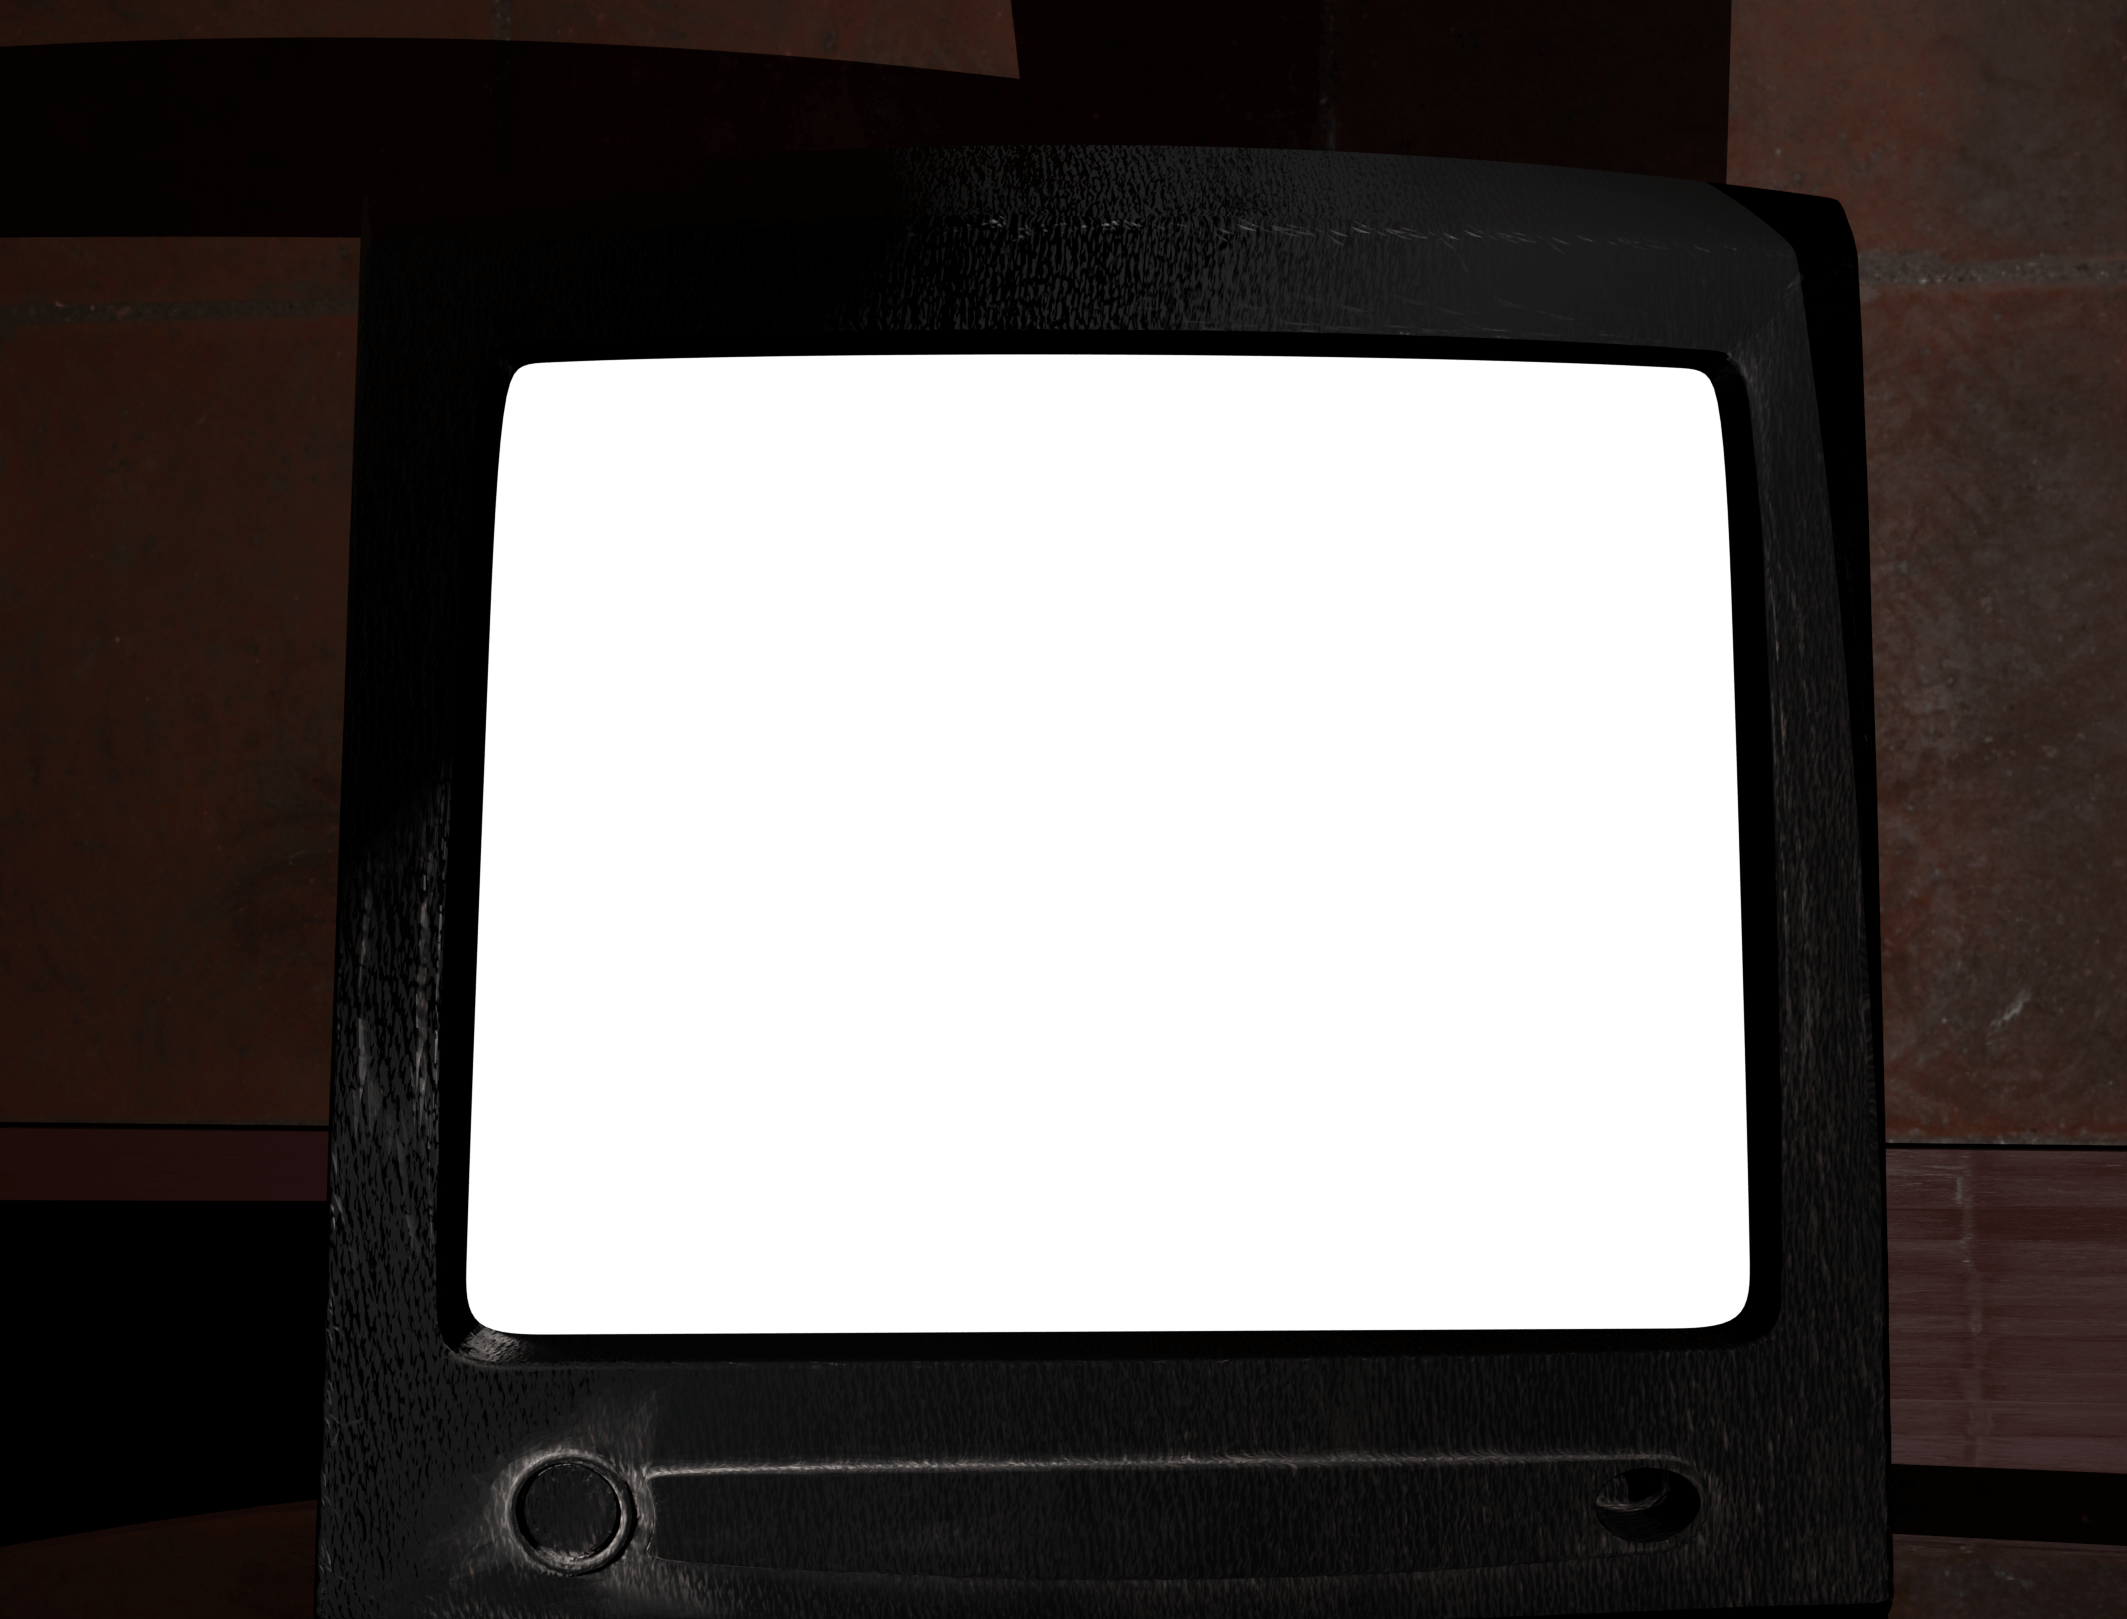
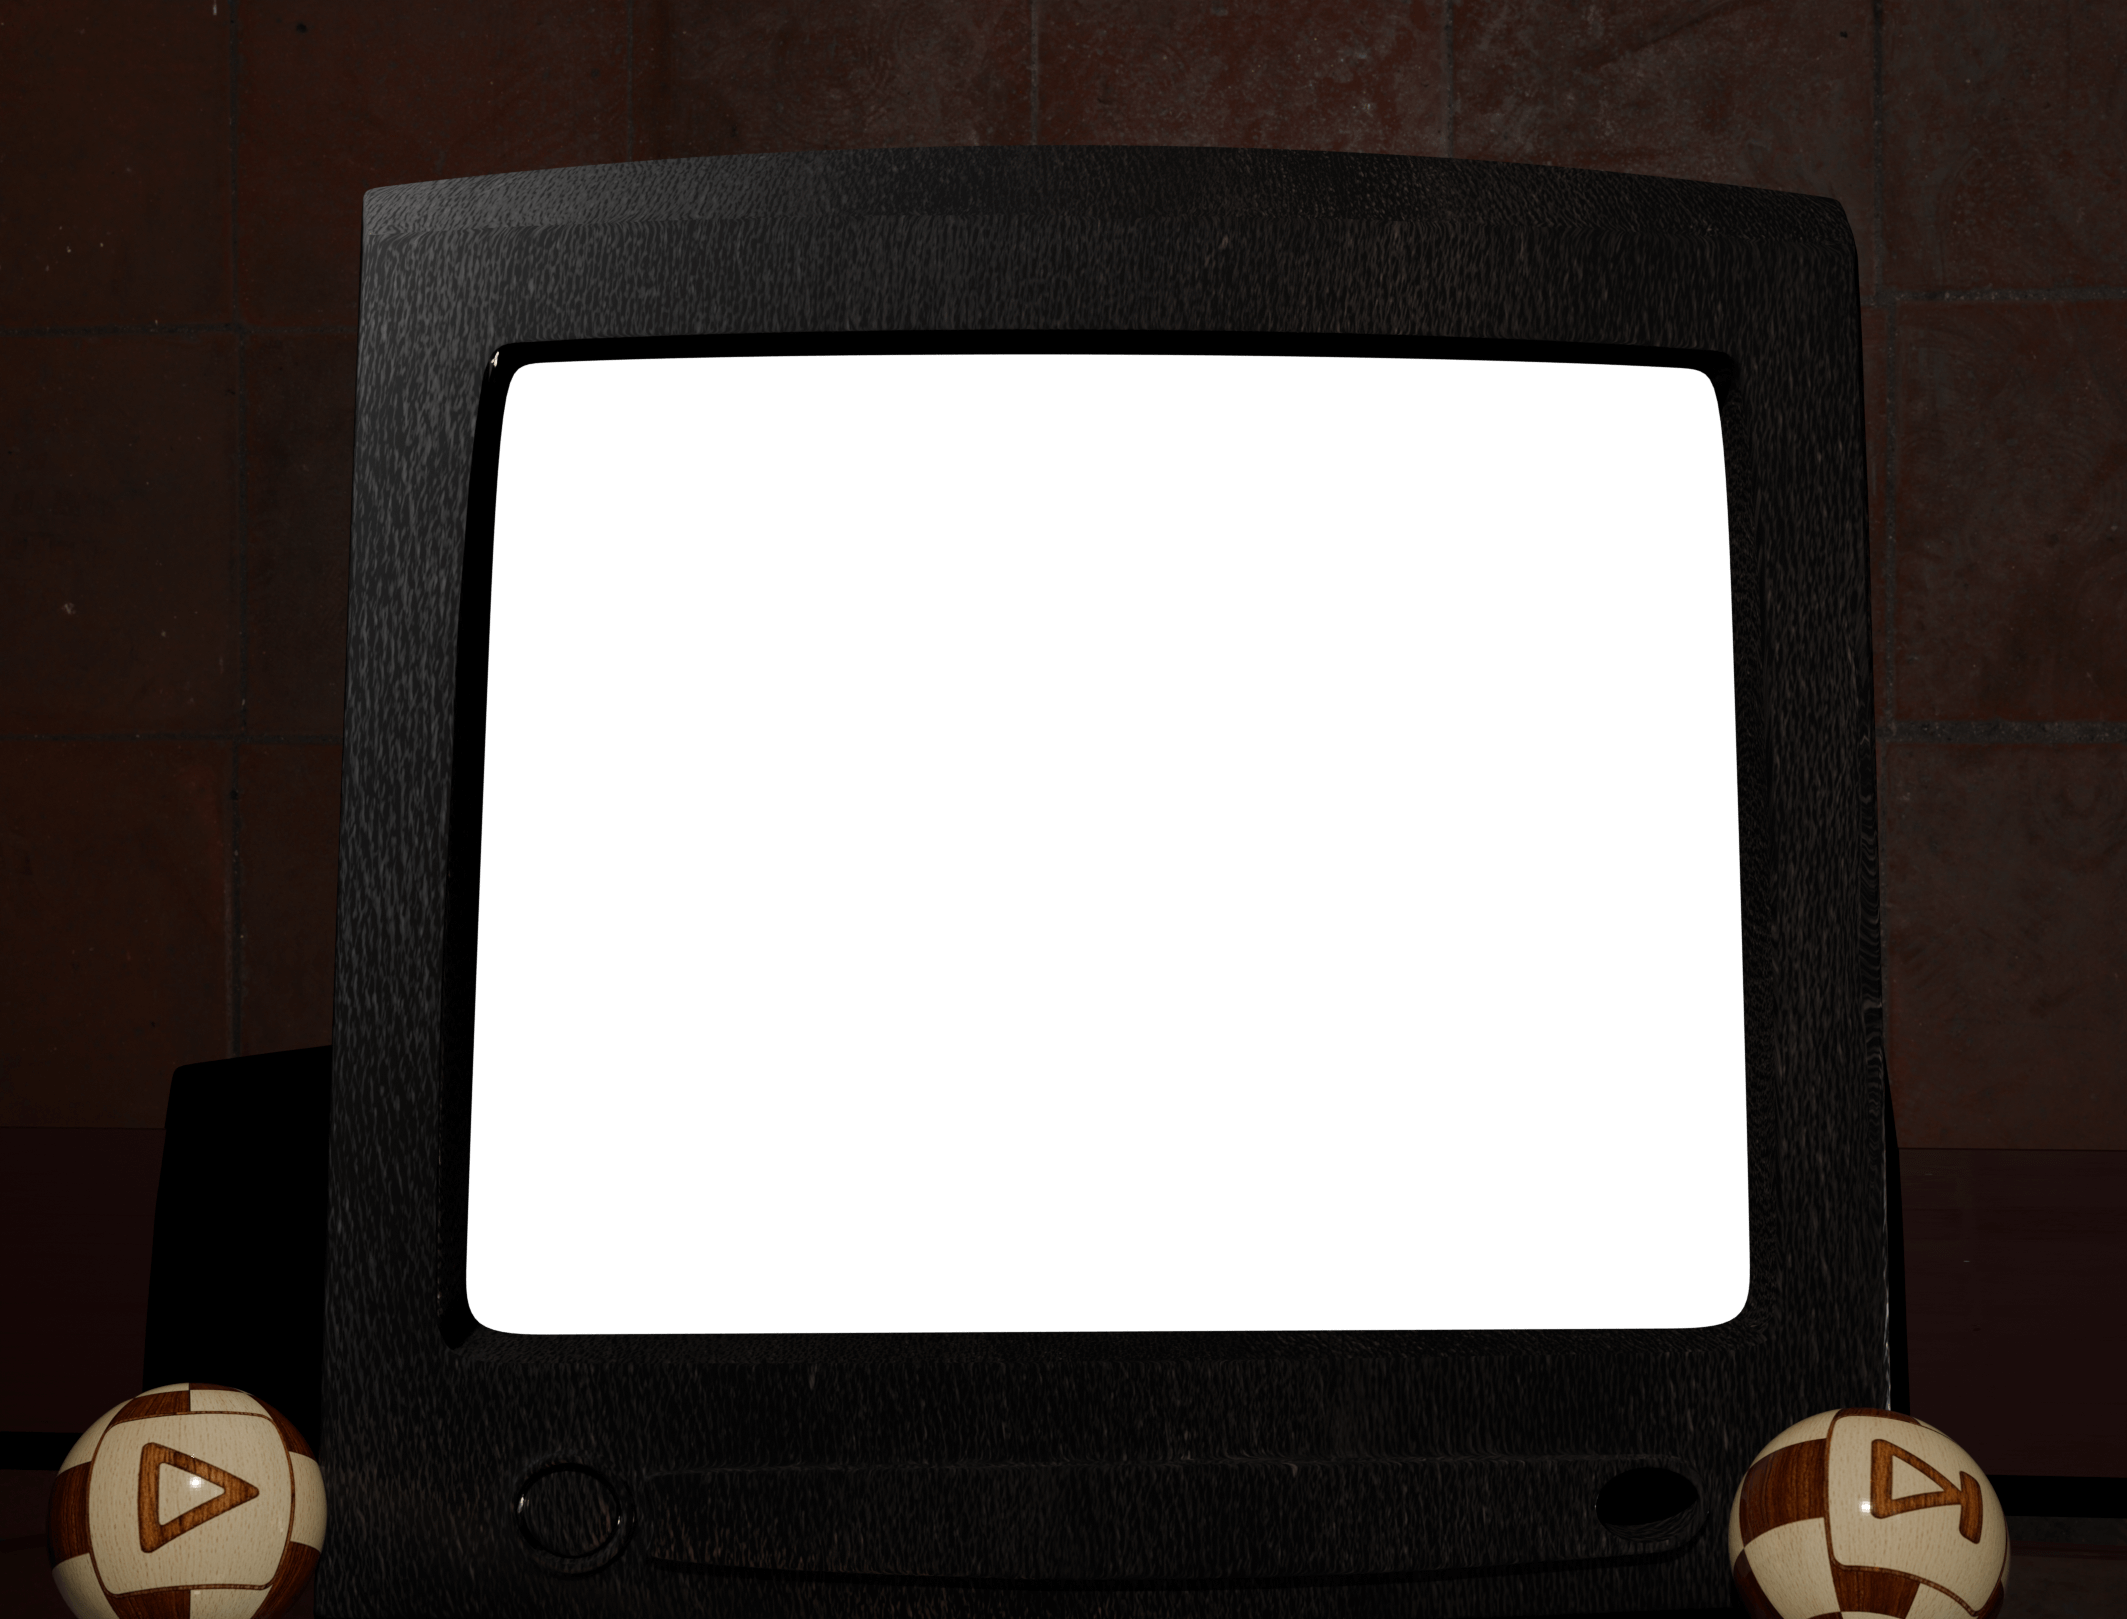
da

diff --git a/src/app/tv/page.tsx b/src/app/tv/page.tsx
@@ -23,14 +23,28 @@ const CHANNELS = [
 ];
 
 /**
- * The channel knob painted into the bottom-left of `tv_frame.png`.
+ * The two balls painted at the bottom corners of `tv_frame.png`: play on the
+ * left, next on the right. Restored from commit 3629004, which is the only
+ * version of the frame that has them.
  *
  * Percentages are of the container, not of the image. The container is
  * portrait (900×1260) while the frame art is landscape, so `object-fit:
  * contain` letterboxes it into the middle ~54% of the height — which is why
- * the vertical number looks large for something near the bottom of the TV.
+ * the vertical numbers look large for something sitting near the bottom of
+ * the picture.
  */
-const KNOB = { left: "23%", top: "70.6%", width: "8%", height: "6%" };
+const PLAY_BALL = { left: "3%", top: "69.5%", width: "12%", height: "8%" };
+const NEXT_BALL = { left: "83.5%", top: "69.5%", width: "12%", height: "8%" };
+
+/** Shared by both balls; only the rectangle differs. */
+const BALL_STYLE: CSSProperties = {
+  position: "absolute",
+  zIndex: 300,
+  background: "transparent",
+  border: "none",
+  padding: 0,
+  cursor: "pointer",
+};
 
 /** Geometry of the picture inside the frame. The static must match it exactly. */
 const SCREEN: CSSProperties = {
@@ -47,10 +61,10 @@ export default function VideoPage() {
   /** True while the screen is showing static, mid-turn of the dial. */
   const [tuning, setTuning] = useState(false);
   /**
-   * The set is off until the visitor presses the dead screen. That press is
-   * not only staging: an unmuted embed will not start without a real user
-   * gesture, so the dark screen is what buys the right to autoplay — and the
-   * visitor never sees YouTube's red play button.
+   * The set is off until the play ball is pressed. That press is not only
+   * staging: an unmuted embed will not start without a real user gesture, so
+   * the dark screen is what buys the right to autoplay — and the visitor
+   * never sees YouTube's red play button.
    */
   const [on, setOn] = useState(false);
 
@@ -129,8 +143,12 @@ export default function VideoPage() {
     [tuning, playStatic]
   );
 
-  /** Press the dead screen: the set warms up on whatever channel it was left on. */
-  const powerOn = useCallback(() => burst(() => setOn(true)), [burst]);
+  /**
+   * The play ball. Warms the set up on whatever channel it was left on, and
+   * kills it again on a second press — unmounting the embed is also the only
+   * reliable way to stop its sound.
+   */
+  const togglePower = useCallback(() => burst(() => setOn(o => !o)), [burst]);
 
   /** Turn the dial: static, then the next channel is simply there. */
   const turnDial = useCallback(
@@ -260,9 +278,11 @@ export default function VideoPage() {
         </div>
 
         {/* === THE DEAD SCREEN === */}
-        {/* Black glass, and the only thing on the page worth pressing. */}
+        {/* Black glass while the set is off. Not itself pressable: the play
+            ball painted into the frame is the way in. */}
         {!on && (
           <div
+            aria-hidden
             style={{
               position: "absolute",
               inset: 0,
@@ -271,21 +291,10 @@ export default function VideoPage() {
               alignItems: "center",
               overflow: "hidden",
               zIndex: 50,
+              pointerEvents: "none",
             }}
           >
-            <button
-              type="button"
-              aria-label="Turn on the television"
-              tabIndex={-1}
-              onClick={powerOn}
-              style={{
-                ...SCREEN,
-                background: "#000",
-                border: "none",
-                padding: 0,
-                cursor: "pointer",
-              }}
-            />
+            <div style={{ ...SCREEN, background: "#000" }} />
           </div>
         )}
 
@@ -325,23 +334,22 @@ export default function VideoPage() {
           }}
         />
 
-        {/* === THE DIAL === */}
-        {/* Invisible, like every other control in the project: it sits on the
-            knob that is already painted into the frame. */}
+        {/* === THE TWO BALLS === */}
+        {/* Invisible, like every other control in the project: they sit on the
+            symbols already painted into the frame. */}
         <button
           type="button"
-          aria-label="Change channel"
+          aria-label={on ? "Turn the television off" : "Turn the television on"}
+          tabIndex={-1}
+          onClick={togglePower}
+          style={{ ...BALL_STYLE, ...PLAY_BALL }}
+        />
+        <button
+          type="button"
+          aria-label="Next channel"
           tabIndex={-1}
           onClick={turnDial}
-          style={{
-            position: "absolute",
-            ...KNOB,
-            zIndex: 300,
-            background: "transparent",
-            border: "none",
-            padding: 0,
-            cursor: "pointer",
-          }}
+          style={{ ...BALL_STYLE, ...NEXT_BALL }}
         />
       </div>
     </main>
